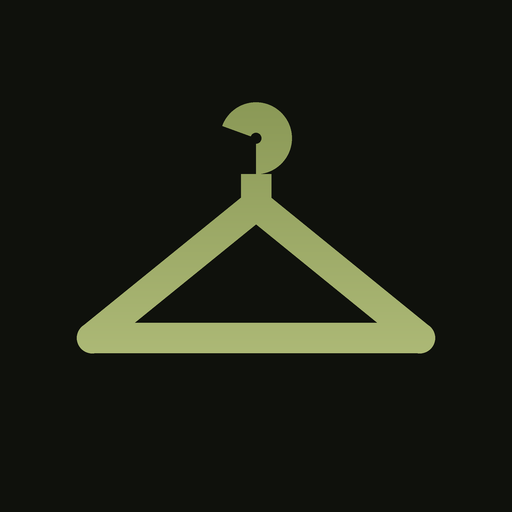
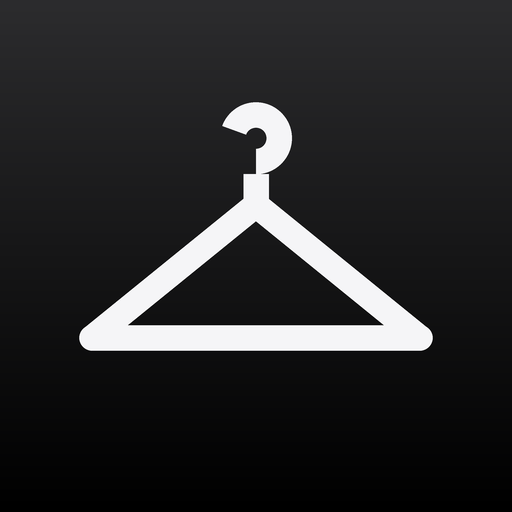
Choix de couleur et nouvelle animation d'ouverture plus sobre
Claude-Session: https://claude.ai/code/session_01AJMDEQagK3BG1TWzN7uHp6

Changed region(s): [[0.0, 0.0, 1.0, 0.7188]]

diff --git a/style.css b/style.css
@@ -1,7 +1,7 @@
 :root{
-  --bg:#0c0d0a; --ink:#f4f5ef; --soft:#cfd1c6; --muted:#8e9284; --line:rgba(255,255,255,.09);
+  --ink:#f4f5ef; --soft:#cfd1c6; --muted:#8e9284; --line:rgba(255,255,255,.09);
   --glass:rgba(255,255,255,.055); --glass-2:rgba(255,255,255,.09);
-  --a1:#6b7a3c; --a2:#a3b16a; --grad:linear-gradient(135deg,var(--a1),var(--a2));
+  --grad:linear-gradient(135deg,var(--a1),var(--a2));
   --danger:#ff6b7d; --r:24px;
   --safe-b:env(safe-area-inset-bottom,0px); --safe-t:env(safe-area-inset-top,0px);
 }
@@ -9,8 +9,8 @@
 html,body{margin:0;background:var(--bg);color:var(--ink);font:16px/1.45 -apple-system,BlinkMacSystemFont,"SF Pro Text","Inter",system-ui,sans-serif;-webkit-font-smoothing:antialiased}
 body{min-height:100vh;padding-bottom:calc(92px + var(--safe-b));overscroll-behavior-y:none}
 .bg-glow{position:fixed;inset:0;z-index:-1;pointer-events:none;
-  background:radial-gradient(60% 40% at 15% 0%,rgba(110,128,60,.35),transparent 70%),
-             radial-gradient(50% 35% at 100% 20%,rgba(170,185,110,.16),transparent 70%),var(--bg)}
+  background:radial-gradient(60% 40% at 15% 0%,rgba(var(--g),.35),transparent 70%),
+             radial-gradient(50% 35% at 100% 20%,rgba(var(--g2),.16),transparent 70%),var(--bg)}
 main{padding:calc(14px + var(--safe-t)) 16px 24px;max-width:560px;margin:0 auto}
 .tab{display:none;animation:fade .25s ease}.tab.active{display:block}
 @keyframes fade{from{opacity:0;transform:translateY(6px)}to{opacity:1;transform:none}}
@@ -36,15 +36,15 @@ ol{padding-left:18px;margin:6px 0}
 button,.filebtn{font:inherit;color:inherit;cursor:pointer;-webkit-user-select:none;user-select:none}
 button:active,.filebtn:active,.pick-card:active,.tile:active,.lcard:active{transform:scale(.97)}
 button:disabled{opacity:.45}
-.btn-grad{display:inline-flex;align-items:center;justify-content:center;gap:8px;border:none;border-radius:18px;padding:15px 18px;background:var(--grad);color:#fff;font-weight:650;font-size:16px;box-shadow:0 8px 24px rgba(138,154,91,.35);transition:transform .15s}
+.btn-grad{display:inline-flex;align-items:center;justify-content:center;gap:8px;border:none;border-radius:18px;padding:15px 18px;background:var(--grad);color:#fff;font-weight:650;font-size:16px;box-shadow:0 8px 24px rgba(var(--g),.35);transition:transform .15s}
 .btn-glass{display:inline-flex;align-items:center;justify-content:center;gap:8px;border:1px solid var(--line);border-radius:16px;padding:12px 14px;background:var(--glass-2);font-weight:600;font-size:15px;transition:transform .15s}
 .btn-icon{display:inline-flex;align-items:center;justify-content:center;width:54px;flex:0 0 54px;border-radius:18px;border:1px solid var(--line);background:var(--glass-2);transition:transform .15s}
 .btn-icon .ic{width:24px;height:24px}
-.btn-icon.saved{background:rgba(194,205,138,.16);border-color:rgba(194,205,138,.5);color:var(--a2)}
+.btn-icon.saved{background:rgba(var(--g2),.16);border-color:rgba(var(--g2),.5);color:var(--a2)}
 .btn-icon.saved .ic{fill:var(--a2);stroke:var(--a2)}
 .btn-round{width:36px;height:36px;border-radius:50%;border:none;background:var(--glass-2);display:inline-flex;align-items:center;justify-content:center;color:var(--soft)}
 .btn-round .ic{width:18px;height:18px}
-.link{display:inline-flex;align-items:center;gap:6px;border:none;background:none;color:#c6d196;font-weight:600;padding:8px 0}
+.link{display:inline-flex;align-items:center;gap:6px;border:none;background:none;color:var(--txt);font-weight:600;padding:8px 0}
 .link .ic{width:16px;height:16px}
 .danger{color:var(--danger)!important}
 .full{width:100%;margin-top:12px;justify-content:center}
@@ -53,7 +53,7 @@ button:disabled{opacity:.45}
 
 /* Champs */
 input[type=text],input[type=password],select{width:100%;font:inherit;font-size:16px;padding:13px 14px;border:1px solid var(--line);border-radius:14px;background:rgba(255,255,255,.06);color:var(--ink);outline:none}
-input:focus{border-color:rgba(138,154,91,.7)}
+input:focus{border-color:rgba(var(--g),.7)}
 input::placeholder{color:#6f7366}
 .field{display:block;margin:18px 0 8px;font-size:13px;color:var(--muted);font-weight:600;text-transform:uppercase;letter-spacing:.6px}
 .field input{margin-top:8px;text-transform:none;letter-spacing:0;font-weight:400}
@@ -69,13 +69,13 @@ details{margin-top:12px;color:var(--muted)}summary{cursor:pointer}
 .wx-side .range{color:var(--muted);font-size:13px}
 .wx-pills{display:flex;gap:6px;flex-wrap:wrap;margin-top:12px}
 .pill{font-size:12px;color:var(--soft);background:rgba(255,255,255,.06);border:1px solid var(--line);border-radius:20px;padding:5px 10px;display:inline-flex;align-items:center;gap:5px}
-.pill.btn{cursor:pointer;color:#c6d196}
+.pill.btn{cursor:pointer;color:var(--txt)}
 .pill .ic{width:13px;height:13px}
 
 /* Tenue */
 .outfit{padding:12px}
 .stage{position:relative;width:100%;aspect-ratio:3/4;border-radius:18px;overflow:hidden;touch-action:pan-y;
-  background:radial-gradient(70% 55% at 50% 38%,rgba(138,154,91,.32),transparent 75%),linear-gradient(180deg,#1a1d15,#111310)}
+  background:radial-gradient(70% 55% at 50% 38%,rgba(var(--g),.32),transparent 75%),linear-gradient(180deg,var(--s2),var(--s3))}
 .stage svg.mannequin{position:absolute;inset:0;width:100%;height:100%}
 .stage .piece{position:absolute;object-fit:contain;filter:drop-shadow(0 8px 14px rgba(0,0,0,.45));transition:transform .3s ease,opacity .3s ease;cursor:pointer}
 .stage.out .piece{opacity:0;transform:translateX(var(--dx,-30px))}
@@ -110,7 +110,7 @@ details{margin-top:12px;color:var(--muted)}summary{cursor:pointer}
 .empty p{margin:6px 0}
 .empty-ic{width:64px;height:64px;border-radius:22px;margin:0 auto 14px;background:var(--glass-2);display:flex;align-items:center;justify-content:center}
 .empty-ic .ic{width:30px;height:30px;stroke:url(#grad)}
-.fab{position:fixed;right:20px;bottom:calc(96px + var(--safe-b));width:60px;height:60px;border-radius:20px;background:var(--grad);color:#fff;border:none;display:flex;align-items:center;justify-content:center;box-shadow:0 10px 28px rgba(138,154,91,.5);z-index:6}
+.fab{position:fixed;right:20px;bottom:calc(96px + var(--safe-b));width:60px;height:60px;border-radius:20px;background:var(--grad);color:#fff;border:none;display:flex;align-items:center;justify-content:center;box-shadow:0 10px 28px rgba(var(--g),.5);z-index:6}
 .fab .ic{width:28px;height:28px;stroke-width:2.2}
 
 /* Tenues */
@@ -131,16 +131,16 @@ details{margin-top:12px;color:var(--muted)}summary{cursor:pointer}
 /* Feuilles */
 .sheet{position:fixed;inset:0;background:rgba(0,0,0,.55);z-index:30;display:flex;align-items:flex-end;animation:fadebg .2s}
 @keyframes fadebg{from{background:rgba(0,0,0,0)}}
-.sheet-body{width:100%;max-width:560px;margin:0 auto;max-height:92vh;overflow-y:auto;background:#151712;border:1px solid var(--line);border-bottom:none;border-radius:28px 28px 0 0;padding:10px 18px calc(26px + var(--safe-b));animation:up .28s cubic-bezier(.2,.9,.3,1)}
+.sheet-body{width:100%;max-width:560px;margin:0 auto;max-height:92vh;overflow-y:auto;background:var(--s1);border:1px solid var(--line);border-bottom:none;border-radius:28px 28px 0 0;padding:10px 18px calc(26px + var(--safe-b));animation:up .28s cubic-bezier(.2,.9,.3,1)}
 @keyframes up{from{transform:translateY(100%)}}
 .grabber{width:40px;height:5px;border-radius:3px;background:rgba(255,255,255,.18);margin:0 auto 12px}
 .pick{display:grid;gap:10px;margin-top:14px}
 .pick-card{display:flex;flex-direction:column;align-items:flex-start;gap:4px;padding:18px;border-radius:20px;background:var(--glass-2);border:1px solid var(--line);cursor:pointer;transition:transform .15s}
 .pick-card .ic{width:26px;height:26px;margin-bottom:6px}
 .pick-card span{font-size:13px;color:var(--muted)}
-.pick-card.main{background:linear-gradient(135deg,rgba(138,154,91,.3),rgba(194,205,138,.22));border-color:rgba(138,154,91,.45)}
+.pick-card.main{background:linear-gradient(135deg,rgba(var(--g),.3),rgba(var(--g2),.22));border-color:rgba(var(--g),.45)}
 .photo-box{width:100%;aspect-ratio:1;border-radius:20px;overflow:hidden;display:flex;align-items:center;justify-content:center;margin-top:12px;
-  background:radial-gradient(60% 60% at 50% 45%,rgba(138,154,91,.25),transparent 80%),#1a1d16}
+  background:radial-gradient(60% 60% at 50% 45%,rgba(var(--g),.25),transparent 80%),var(--s2)}
 .photo-box img{max-width:88%;max-height:88%;object-fit:contain;filter:drop-shadow(0 8px 16px rgba(0,0,0,.5))}
 .swatches{display:flex;flex-wrap:wrap;gap:10px}
 .swatches button{width:34px;height:34px;border-radius:50%;border:2px solid transparent;padding:0;outline:1px solid rgba(255,255,255,.18);outline-offset:-1px}
@@ -161,50 +161,57 @@ details{margin-top:12px;color:var(--muted)}summary{cursor:pointer}
 
 /* Barre d'onglets */
 .tabs{position:fixed;left:12px;right:12px;bottom:calc(10px + var(--safe-b));max-width:536px;margin:0 auto;display:flex;padding:6px;border-radius:26px;z-index:20;
-  background:rgba(22,24,19,.78);border:1px solid var(--line);backdrop-filter:blur(24px) saturate(160%);-webkit-backdrop-filter:blur(24px) saturate(160%);box-shadow:0 10px 30px rgba(0,0,0,.4)}
+  background:rgba(var(--bar),.78);border:1px solid var(--line);backdrop-filter:blur(24px) saturate(160%);-webkit-backdrop-filter:blur(24px) saturate(160%);box-shadow:0 10px 30px rgba(0,0,0,.4)}
 .tabs button{flex:1;border:none;background:none;border-radius:20px;padding:8px 0 7px;font-size:10.5px;font-weight:600;color:#7b7f72;display:flex;flex-direction:column;align-items:center;gap:3px;transition:background .2s,color .2s}
 .tabs button .ic{width:23px;height:23px}
 .tabs button.active{color:#fff;background:rgba(255,255,255,.08)}
 .tabs button.active .ic{stroke:url(#grad)}
 
-.toast{position:fixed;left:50%;transform:translateX(-50%);bottom:calc(100px + var(--safe-b));background:rgba(36,40,31,.95);border:1px solid var(--line);backdrop-filter:blur(20px);-webkit-backdrop-filter:blur(20px);color:#fff;padding:11px 18px;border-radius:16px;font-size:14px;z-index:50;max-width:88%;text-align:center;box-shadow:0 10px 30px rgba(0,0,0,.4);animation:fade .2s}
+.toast{position:fixed;left:50%;transform:translateX(-50%);bottom:calc(100px + var(--safe-b));background:rgba(var(--bar2),.95);border:1px solid var(--line);backdrop-filter:blur(20px);-webkit-backdrop-filter:blur(20px);color:#fff;padding:11px 18px;border-radius:16px;font-size:14px;z-index:50;max-width:88%;text-align:center;box-shadow:0 10px 30px rgba(0,0,0,.4);animation:fade .2s}
 .spinner{display:inline-block;width:14px;height:14px;border:2px solid rgba(255,255,255,.15);border-top-color:var(--a2);border-radius:50%;animation:spin 1s linear infinite;vertical-align:-2px;margin-right:8px}
 @keyframes spin{to{transform:rotate(360deg)}}
 
 /* Assistant */
-.head h1#greeting{font-size:34px;background:linear-gradient(90deg,#fff 30%,#d6e0ae);-webkit-background-clip:text;background-clip:text;color:transparent}
+.head h1#greeting{font-size:34px;background:linear-gradient(90deg,#fff 30%,var(--txt));-webkit-background-clip:text;background-clip:text;color:transparent}
 .assistant-line{margin:8px 0 0;font-size:15px;line-height:1.45;color:var(--soft);min-height:22px}
 .assistant-line b{color:var(--ink);font-weight:600}
 .section-title{font-size:13px;font-weight:600;color:var(--muted);text-transform:uppercase;letter-spacing:.8px;margin:22px 4px 10px}
 .fact{padding:16px 18px;position:relative;overflow:hidden}
-.fact::before{content:"";position:absolute;inset:0;background:linear-gradient(135deg,rgba(210,224,160,.10),rgba(138,154,91,.10) 50%,rgba(194,205,138,.08));pointer-events:none}
-.fact .f-head{display:flex;justify-content:space-between;align-items:center;font-size:12px;font-weight:650;text-transform:uppercase;letter-spacing:.8px;color:#c6d196}
+.fact::before{content:"";position:absolute;inset:0;background:linear-gradient(135deg,rgba(var(--g2),.10),rgba(var(--g),.10) 50%,rgba(var(--g2),.08));pointer-events:none}
+.fact .f-head{display:flex;justify-content:space-between;align-items:center;font-size:12px;font-weight:650;text-transform:uppercase;letter-spacing:.8px;color:var(--txt)}
 .fact .f-head span:last-child{color:var(--muted);font-weight:500;text-transform:none;letter-spacing:0}
 .fact p{margin:8px 0 0;font-size:15px;line-height:1.5;color:var(--ink)}
 .fact .f-share{margin-top:6px;font-size:13px}
 
-/* Animation d'ouverture */
-.intro{position:fixed;inset:0;z-index:100;background:radial-gradient(70% 50% at 50% 42%,#1b2214,#070806 75%);display:flex;flex-direction:column;align-items:center;justify-content:center;transition:opacity .6s ease,transform .6s ease}
-.intro.leave{opacity:0;transform:scale(1.08);pointer-events:none}
-.intro-grid{position:absolute;inset:0;opacity:.18;background-image:linear-gradient(rgba(210,224,160,.25) 1px,transparent 1px),linear-gradient(90deg,rgba(210,224,160,.25) 1px,transparent 1px);background-size:32px 32px;-webkit-mask-image:radial-gradient(circle at 50% 42%,#000,transparent 65%);mask-image:radial-gradient(circle at 50% 42%,#000,transparent 65%)}
-.reactor{width:min(62vw,260px);aspect-ratio:1;position:relative;animation:pop .7s cubic-bezier(.2,1.4,.4,1) both}
-.reactor svg{width:100%;height:100%;overflow:visible}
-.reactor .r{transform-origin:100px 100px;animation:spin 6s linear infinite}
-.reactor .r1{animation-duration:14s}
-.reactor .r2{animation-duration:5s;animation-direction:reverse}
-.reactor .r3{animation-duration:3.2s}
-.reactor .r4{animation-duration:9s;animation-direction:reverse}
-.reactor .r5{animation-duration:2.4s}
-.reactor .core{transform-origin:100px 100px;animation:pulse 1.4s ease-in-out infinite}
-.reactor .scan{transform-origin:100px 100px;animation:spin 1.6s linear infinite}
-@keyframes pop{from{transform:scale(.3);opacity:0}}
-@keyframes pulse{50%{transform:scale(1.18);opacity:.75}}
-.intro-text{margin-top:34px;text-align:center;min-height:120px;padding:0 24px}
-.intro-hello{font-size:28px;font-weight:300;letter-spacing:6px;text-transform:uppercase;color:#fff;text-shadow:0 0 18px rgba(138,154,91,.9)}
-.intro-hello .cursor{display:inline-block;width:2px;height:1em;background:#e3ecbd;margin-left:4px;vertical-align:-3px;animation:blink .8s steps(1) infinite}
-@keyframes blink{50%{opacity:0}}
-.intro-lines{margin-top:16px;font:12.5px/1.9 "SF Mono",ui-monospace,Menlo,monospace;color:#d3dfa6;letter-spacing:.5px;text-align:left;display:inline-block}
-.intro-lines div{opacity:0;animation:line .35s ease forwards}
-.intro-lines div::before{content:"› ";color:#a8b86a}
-@keyframes line{from{opacity:0;transform:translateX(-6px)}to{opacity:1;transform:none}}
-.intro-skip{position:absolute;bottom:calc(30px + var(--safe-b));font-size:12px;color:rgba(255,255,255,.3)}
+
+/* Thèmes de couleur */
+:root,[data-theme=sapin]{--a1:#1d5a42;--a2:#3d8e68;--g:62,142,105;--g2:120,190,150;--txt:#93d6b2;--bg:#090c0a;--s1:#121714;--s2:#15201a;--s3:#0d120f;--bar:17,22,19;--bar2:30,38,33;--btn-ink:#fff}
+[data-theme=sauge]{--a1:#55705e;--a2:#8ba995;--g:110,145,122;--g2:170,200,178;--txt:#bfd8c6;--bg:#0b0d0c;--s1:#141816;--s2:#1a201c;--s3:#101311;--bar:20,24,22;--bar2:34,40,36;--btn-ink:#fff}
+[data-theme=emeraude]{--a1:#0a6b50;--a2:#22a47c;--g:30,160,120;--g2:110,220,180;--txt:#82e4c2;--bg:#080b0a;--s1:#101614;--s2:#12201a;--s3:#0b110f;--bar:16,22,20;--bar2:28,38,34;--btn-ink:#fff}
+[data-theme=olive]{--a1:#6b7a3c;--a2:#a3b16a;--g:138,154,91;--g2:194,205,138;--txt:#c6d196;--bg:#0c0d0a;--s1:#151712;--s2:#1a1d15;--s3:#111310;--bar:22,24,19;--bar2:36,40,31;--btn-ink:#fff}
+[data-theme=graphite]{--a1:#f5f5f7;--a2:#d9d9de;--g:150,150,160;--g2:210,210,220;--txt:#f5f5f7;--bg:#000;--s1:#1c1c1e;--s2:#1c1c1e;--s3:#0e0e10;--bar:28,28,30;--bar2:44,44,46;--btn-ink:#000}
+[data-theme=violet]{--a1:#8b6cff;--a2:#ff5ca8;--g:139,108,255;--g2:255,92,168;--txt:#b7a6ff;--bg:#0c0c12;--s1:#17161f;--s2:#1b1a2a;--s3:#121219;--bar:24,23,34;--bar2:40,38,56;--btn-ink:#fff}
+.btn-grad,.fab,.seg button.on,.badge{color:var(--btn-ink)!important}
+[data-theme=graphite] .btn-grad,[data-theme=graphite] .fab{box-shadow:0 8px 24px rgba(255,255,255,.12)}
+.themes{display:grid;grid-template-columns:repeat(3,1fr);gap:10px;margin-top:10px}
+.themes button{display:flex;flex-direction:column;align-items:center;gap:8px;padding:12px 6px;border-radius:16px;border:1px solid var(--line);background:rgba(255,255,255,.04);font-size:12.5px;font-weight:550;color:var(--soft)}
+.themes button i{width:34px;height:34px;border-radius:50%;display:block;box-shadow:inset 0 0 0 1px rgba(255,255,255,.15)}
+.themes button.on{border-color:var(--txt);background:rgba(var(--g),.14);color:var(--ink)}
+
+/* Animation d'ouverture : sobre, façon Apple */
+.intro{position:fixed;inset:0;z-index:100;background:#000;display:flex;align-items:center;justify-content:center;overflow:hidden;transition:opacity .7s ease}
+.intro.leave{opacity:0;pointer-events:none}
+.intro .orb{position:absolute;border-radius:50%;filter:blur(70px);opacity:0;animation:orbIn 1.6s ease forwards,drift 7s ease-in-out infinite alternate}
+.intro .o1{width:70vw;height:70vw;max-width:420px;max-height:420px;left:-15%;top:12%;background:rgba(var(--g),.85)}
+.intro .o2{width:60vw;height:60vw;max-width:360px;max-height:360px;right:-18%;top:38%;background:rgba(var(--g2),.55);animation-delay:.15s,0s;animation-duration:1.6s,9s}
+.intro .o3{width:50vw;height:50vw;max-width:300px;max-height:300px;left:20%;bottom:-12%;background:var(--a1);animation-delay:.3s,0s;animation-duration:1.6s,8s}
+@keyframes orbIn{from{opacity:0;transform:scale(.6)}to{opacity:.55;transform:scale(1)}}
+@keyframes drift{to{translate:6% -5%}}
+.intro-content{position:relative;text-align:center;transition:transform .7s ease,filter .7s ease}
+.intro.leave .intro-content{transform:scale(1.06);filter:blur(8px)}
+.intro-hello{font-size:50px;line-height:1.08;font-weight:200;letter-spacing:-1.5px;color:#fff}
+.intro-hello .name{display:block;font-weight:600;letter-spacing:-1.8px;color:var(--txt);padding-bottom:4px}
+.intro-hello .ch{display:inline-block;opacity:0;filter:blur(14px);transform:translateY(14px);animation:chIn .9s cubic-bezier(.2,.8,.2,1) forwards}
+@keyframes chIn{to{opacity:1;filter:blur(0);transform:none}}
+.intro-sub{margin-top:18px;font-size:15px;color:rgba(255,255,255,.62);opacity:0;transform:translateY(6px);transition:opacity .8s ease,transform .8s ease}
+.intro-sub.show{opacity:1;transform:none}

diff --git a/index.html b/index.html
@@ -7,13 +7,14 @@
 <meta name="mobile-web-app-capable" content="yes">
 <meta name="apple-mobile-web-app-status-bar-style" content="black-translucent">
 <meta name="apple-mobile-web-app-title" content="Garde-robe">
-<meta name="theme-color" content="#0c0d0a">
+<meta name="theme-color" content="#090c0a">
 <meta name="color-scheme" content="dark">
 <title>Garde-robe</title>
 <link rel="manifest" href="manifest.json">
 <link rel="apple-touch-icon" href="icons/icon-180.png">
 <link rel="icon" href="icons/icon-192.png">
 <link rel="stylesheet" href="style.css">
+<script>try{document.documentElement.dataset.theme=localStorage.getItem('theme')||'sapin'}catch(e){}</script>
 </head>
 <body>
 <div class="bg-glow" aria-hidden="true"></div>
@@ -21,7 +22,7 @@
 <!-- Icônes réutilisables -->
 <svg width="0" height="0" style="position:absolute" aria-hidden="true">
   <defs>
-    <linearGradient id="grad" x1="0" y1="0" x2="1" y2="1"><stop offset="0" stop-color="#6b7a3c"/><stop offset="1" stop-color="#a3b16a"/></linearGradient>
+    <linearGradient id="grad" x1="0" y1="0" x2="1" y2="1"><stop offset="0" style="stop-color:var(--a1)"/><stop offset="1" style="stop-color:var(--a2)"/></linearGradient>
   </defs>
   <symbol id="i-today" viewBox="0 0 24 24"><circle cx="12" cy="12" r="4.2"/><path d="M12 2.5v2.2M12 19.3v2.2M2.5 12h2.2M19.3 12h2.2M5.3 5.3l1.6 1.6M17.1 17.1l1.6 1.6M5.3 18.7l1.6-1.6M17.1 6.9l1.6-1.6"/></symbol>
   <symbol id="i-hanger" viewBox="0 0 24 24"><path d="M12 7.2a2.2 2.2 0 1 1 2.2-2.2c0 1.2-2.2 1.6-2.2 3v1.2L3 15.6c-.9.6-.5 2 .6 2h16.8c1.1 0 1.5-1.4.6-2L12 9.2"/></symbol>
@@ -115,6 +116,8 @@
       <label class="field">Ton prénom
         <input id="user-name" type="text" placeholder="Mahé" autocomplete="given-name">
       </label>
+      <div class="field">Couleur</div>
+      <div id="themes" class="themes"></div>
       <label class="switch"><input type="checkbox" id="intro-on" checked><span class="track"></span>Animation d'ouverture</label>
       <label class="switch"><input type="checkbox" id="fact-on" checked><span class="track"></span>Anecdote du jour</label>
       <button id="intro-replay" class="link"><svg class="ic"><use href="#i-sparkle"/></svg>Revoir l'animation</button>
@@ -248,29 +251,11 @@
 
 <!-- Animation d'ouverture -->
 <div id="intro" class="intro hidden" aria-hidden="true">
-  <div class="intro-grid"></div>
-  <div class="reactor">
-    <svg viewBox="0 0 200 200">
-      <defs>
-        <linearGradient id="rg" x1="0" y1="0" x2="1" y2="1"><stop offset="0" stop-color="#e3ecbd"/><stop offset=".5" stop-color="#6b7a3c"/><stop offset="1" stop-color="#a3b16a"/></linearGradient>
-        <filter id="glow"><feGaussianBlur stdDeviation="2.2" result="b"/><feMerge><feMergeNode in="b"/><feMergeNode in="SourceGraphic"/></feMerge></filter>
-      </defs>
-      <g filter="url(#glow)" fill="none" stroke="url(#rg)">
-        <circle class="r r1" cx="100" cy="100" r="92" stroke-width="1" stroke-dasharray="2 6"/>
-        <circle class="r r2" cx="100" cy="100" r="80" stroke-width="3" stroke-dasharray="60 20 10 20"/>
-        <circle class="r r3" cx="100" cy="100" r="66" stroke-width="1.2" stroke-dasharray="120 30"/>
-        <circle class="r r4" cx="100" cy="100" r="54" stroke-width="6" stroke-dasharray="4 8" opacity=".7"/>
-        <circle class="r r5" cx="100" cy="100" r="40" stroke-width="1.5" stroke-dasharray="40 12"/>
-        <circle class="core" cx="100" cy="100" r="22" fill="url(#rg)" stroke="none"/>
-      </g>
-      <circle class="scan" cx="100" cy="100" r="92" fill="none" stroke="#e3ecbd" stroke-width="2" stroke-dasharray="40 538" filter="url(#glow)"/>
-    </svg>
-  </div>
-  <div class="intro-text">
+  <div class="orb o1"></div><div class="orb o2"></div><div class="orb o3"></div>
+  <div class="intro-content">
     <div id="intro-hello" class="intro-hello"></div>
-    <div id="intro-lines" class="intro-lines"></div>
+    <div id="intro-sub" class="intro-sub"></div>
   </div>
-  <div class="intro-skip">Touche pour passer</div>
 </div>
 
 <div id="toast" class="toast hidden"></div>

diff --git a/app.js b/app.js
@@ -526,35 +526,52 @@ function renderFact() {
   box.classList.remove('hidden');
 }
 
-// Animation d'ouverture façon assistant
+// Animation d'ouverture : salut qui apparaît lettre par lettre sur un halo de couleur
 function runIntro() {
   const el = $('#intro');
   el.classList.remove('hidden', 'leave');
-  const hello = $('#intro-hello'), lines = $('#intro-lines');
-  lines.innerHTML = '';
-  const word = `${greetingWord()} ${prefs.name}`.trim();
-  let done = false, timers = [];
+  const hello = $('#intro-hello'), sub = $('#intro-sub');
+  const letters = (txt, d0) => [...txt].map((ch, i) => `<span class="ch" style="animation-delay:${d0 + i * 45}ms">${ch === ' ' ? '&nbsp;' : esc(ch)}</span>`).join('');
+  const word = greetingWord();
+  hello.innerHTML = letters(word, 250) + (prefs.name ? `<span class="name">${letters(prefs.name, 250 + word.length * 45 + 120)}</span>` : '');
+  sub.classList.remove('show');
+  let done = false; const timers = [];
   const later = (fn, ms) => timers.push(setTimeout(fn, ms));
   const finish = () => {
     if (done) return; done = true;
     timers.forEach(clearTimeout);
     el.classList.add('leave');
-    setTimeout(() => el.classList.add('hidden'), 650);
+    setTimeout(() => el.classList.add('hidden'), 750);
   };
   el.onclick = finish;
-  hello.innerHTML = '<span class="cursor"></span>';
-  [...word].forEach((ch, i) => later(() => { hello.innerHTML = esc(word.slice(0, i + 1)) + '<span class="cursor"></span>'; }, 350 + i * 70));
-  const t0 = 350 + word.length * 70 + 200;
-  const addLine = txt => { const d = document.createElement('div'); d.textContent = txt; lines.appendChild(d); };
-  later(() => addLine('Systèmes en ligne'), t0);
+  const tSub = 250 + (word.length + prefs.name.length) * 45 + 700;
   later(() => {
     const c = state.weather?.current;
-    addLine(c ? `Météo${state.loc?.name ? ' ' + state.loc.name : ''} : ${Math.round(c.temperature_2m)}°, ${(WMO[c.weather_code] || ['', 'analysée'])[1].toLowerCase()}` : 'Analyse de la météo…');
-  }, t0 + 450);
-  later(() => addLine(`Dressing : ${state.items.length} pièce${state.items.length > 1 ? 's' : ''} analysée${state.items.length > 1 ? 's' : ''}`), t0 + 900);
-  later(() => addLine(state.current ? 'Tenue du jour prête ✓' : 'Prêt ✓'), t0 + 1350);
-  later(finish, t0 + 2200);
+    sub.textContent = c ? `${Math.round(c.temperature_2m)}°${state.loc?.name ? ' à ' + state.loc.name : ''} · ta tenue est prête` : 'Ta tenue du jour est prête';
+    sub.classList.add('show');
+  }, tSub);
+  later(finish, tSub + 1300);
 }
+
+// Thèmes de couleur
+const THEMES = [
+  ['sapin', 'Vert sapin', 'linear-gradient(135deg,#1d5a42,#3d8e68)'],
+  ['emeraude', 'Émeraude', 'linear-gradient(135deg,#0a6b50,#22a47c)'],
+  ['sauge', 'Sauge', 'linear-gradient(135deg,#55705e,#8ba995)'],
+  ['olive', 'Olive', 'linear-gradient(135deg,#6b7a3c,#a3b16a)'],
+  ['graphite', 'Graphite', 'linear-gradient(135deg,#d9d9de,#f5f5f7)'],
+  ['violet', 'Violet', 'linear-gradient(135deg,#8b6cff,#ff5ca8)'],
+];
+function applyTheme(t) {
+  document.documentElement.dataset.theme = t;
+  try { localStorage.setItem('theme', t); } catch {}
+  const bg = getComputedStyle(document.documentElement).getPropertyValue('--bg').trim();
+  document.querySelector('meta[name=theme-color]')?.setAttribute('content', bg);
+  $('#themes').querySelectorAll('button').forEach(b => b.classList.toggle('on', b.dataset.t === t));
+}
+$('#themes').innerHTML = THEMES.map(([id, label, g]) => `<button data-t="${id}"><i style="background:${g}"></i>${label}</button>`).join('');
+$('#themes').querySelectorAll('button').forEach(b => b.onclick = () => applyTheme(b.dataset.t));
+applyTheme(document.documentElement.dataset.theme || 'sapin');
 
 function renderKicker() {
   const date = new Date().toLocaleDateString('fr-FR', { weekday: 'long', day: 'numeric', month: 'long' });

diff --git a/sw.js b/sw.js
@@ -1,5 +1,5 @@
 // Garde l'appli et le modèle de détourage en cache pour qu'ils marchent hors ligne
-const CACHE = 'garde-robe-v5';
+const CACHE = 'garde-robe-v6';
 const SHELL = ['./', 'index.html', 'style.css', 'app.js', 'facts.js', 'manifest.json', 'icons/icon-180.png', 'icons/icon-192.png'];
 self.addEventListener('install', e => { e.waitUntil(caches.open(CACHE).then(c => c.addAll(SHELL))); self.skipWaiting(); });
 self.addEventListener('activate', e => {
